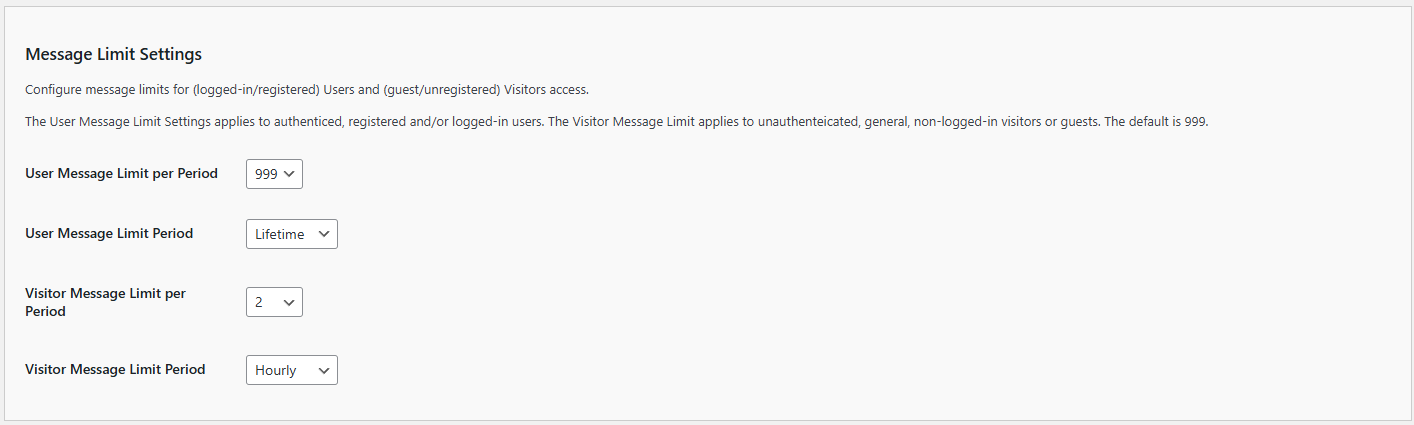
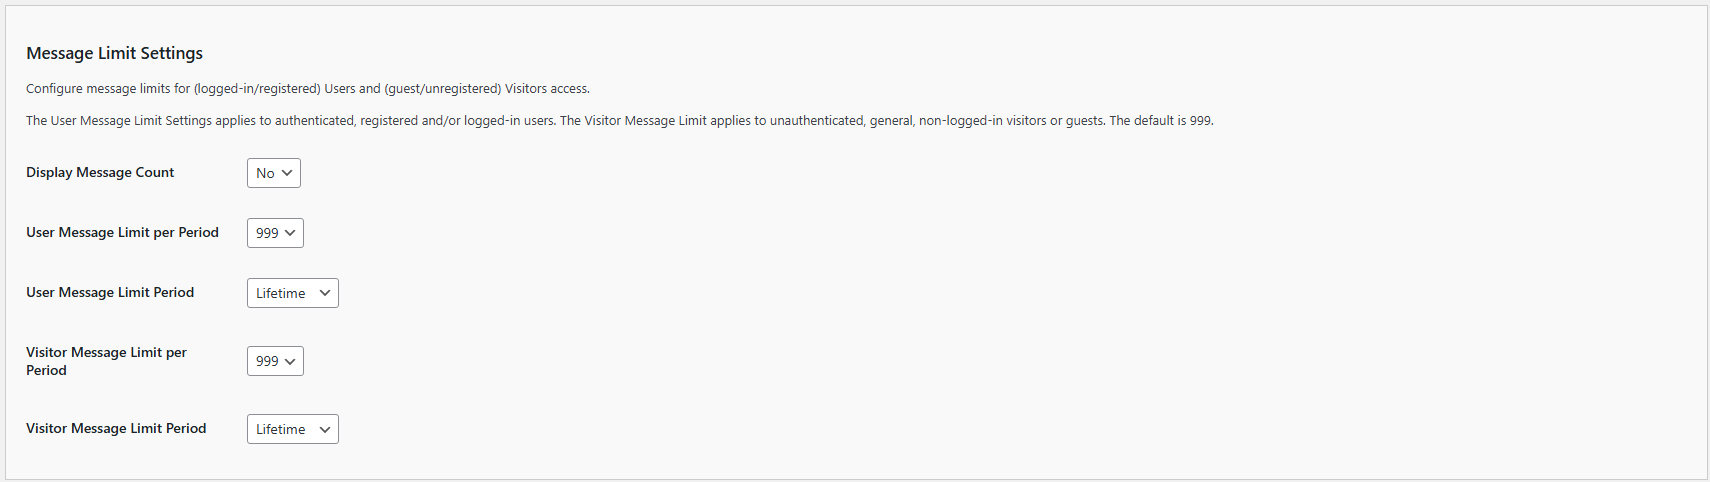
V2.2.9 - Updated documentation

diff --git a/documentation/settings/settings.md b/documentation/settings/settings.md
@@ -39,6 +39,11 @@ The General Settings allow you to customize the basic behavior and appearance of
 
 ![Message Limit Settings](message-limit-settings.png)
 
+1. **Display Message Count**:
+   - **Description**: This setting determines if the message count is displayed in the chatbot's response, such as `(29/50)`, i.e., 29 prompts out of 50 limited, to help visitors and logged-in users understand how many exchanges they have had with the chatbot.
+   - **Default Value**: The default value is `No`, i.e., don't display the count.
+   - **Selection**: Choose `Yes` to display the message count.  Or choose `No` to exclude the message count from the response.
+
 1. **User Message Limit per Period**:
    - **Description**: This setting limits the number of messages logged-in users can send to the chatbot per day. It helps manage API usage and costs.
    - **Default Value**: The default limit is set to 999 messages per day.

diff --git a/documentation/overview.md b/documentation/overview.md
@@ -42,6 +42,7 @@ The **Kognetiks Chatbot** plugin now includes a novel feature: the Sentential Co
 
 ## What's new in Version 2.2.9
 
+* **Display Message Count**: Added a setting to display the message count in the chatbot's response, such as `(29/50)`, i.e., 29 prompts out of 50 limited, to help visitors and logged-in users understand how many exchanges they have had with the chatbot.
 * **Bug Fixes**: Resolved minor issues and bugs identified after release of version 2.2.8.
 
 ## Past Updates

diff --git a/README.md b/README.md
@@ -23,6 +23,7 @@ The **Kognetiks Chatbot** plugin now includes a novel feature: the Sentential Co
 
 ** What's new in Version 2.2.9
 
+* **Display Message Count**: Added a setting to display the message count in the chatbot's response, such as `(29/50)`, i.e., 29 prompts out of 50 limited, to help visitors and logged-in users understand how many exchanges they have had with the chatbot.
 * **Bug Fixes**: Resolved minor issues and bugs identified after release of version 2.2.8.
 
 ## Features
